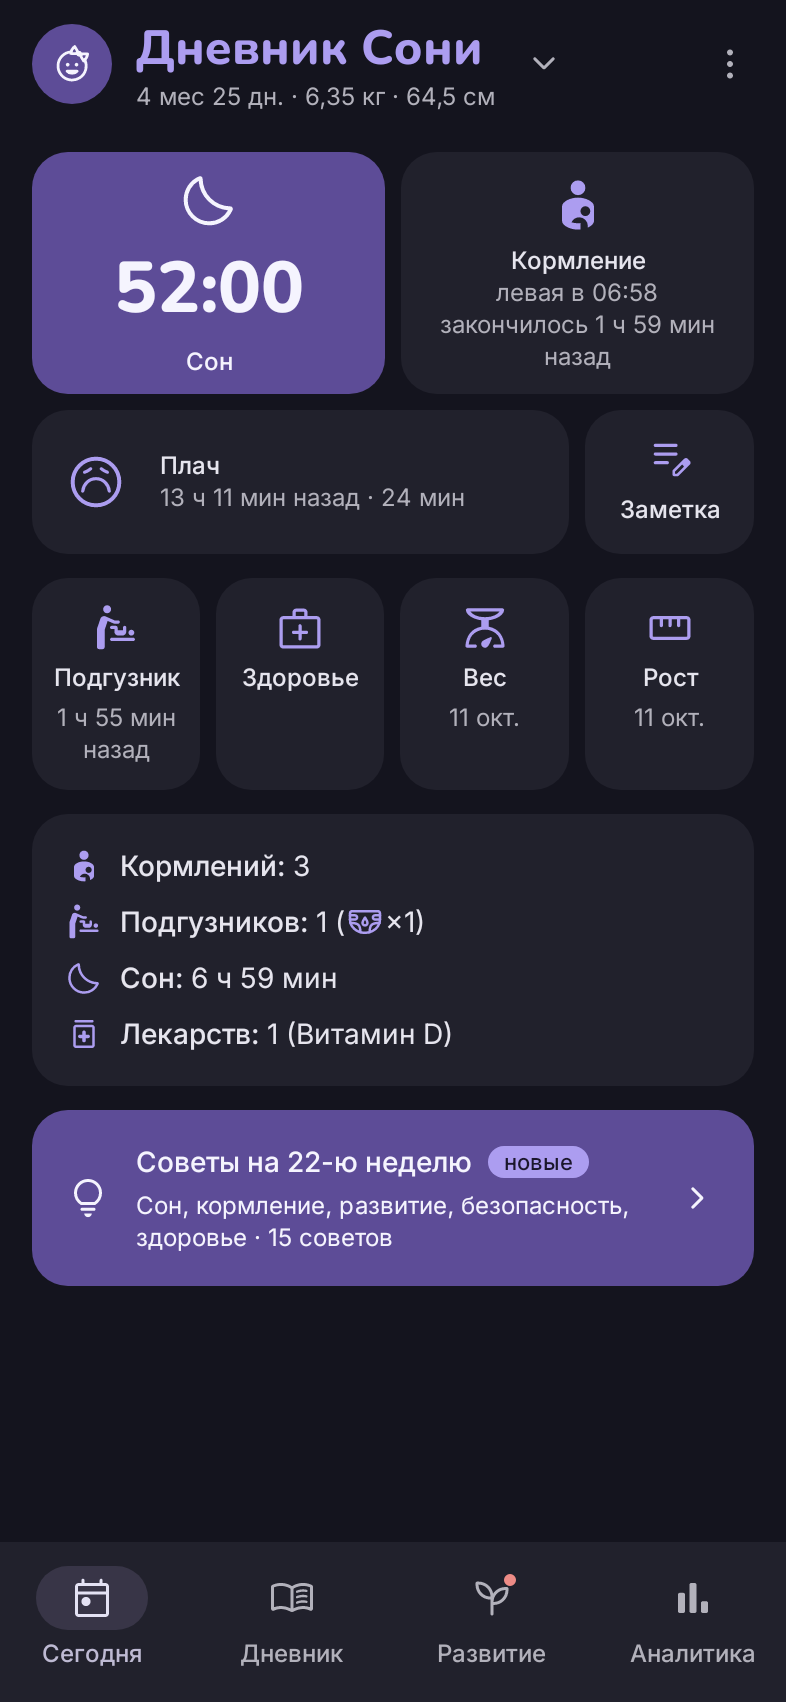
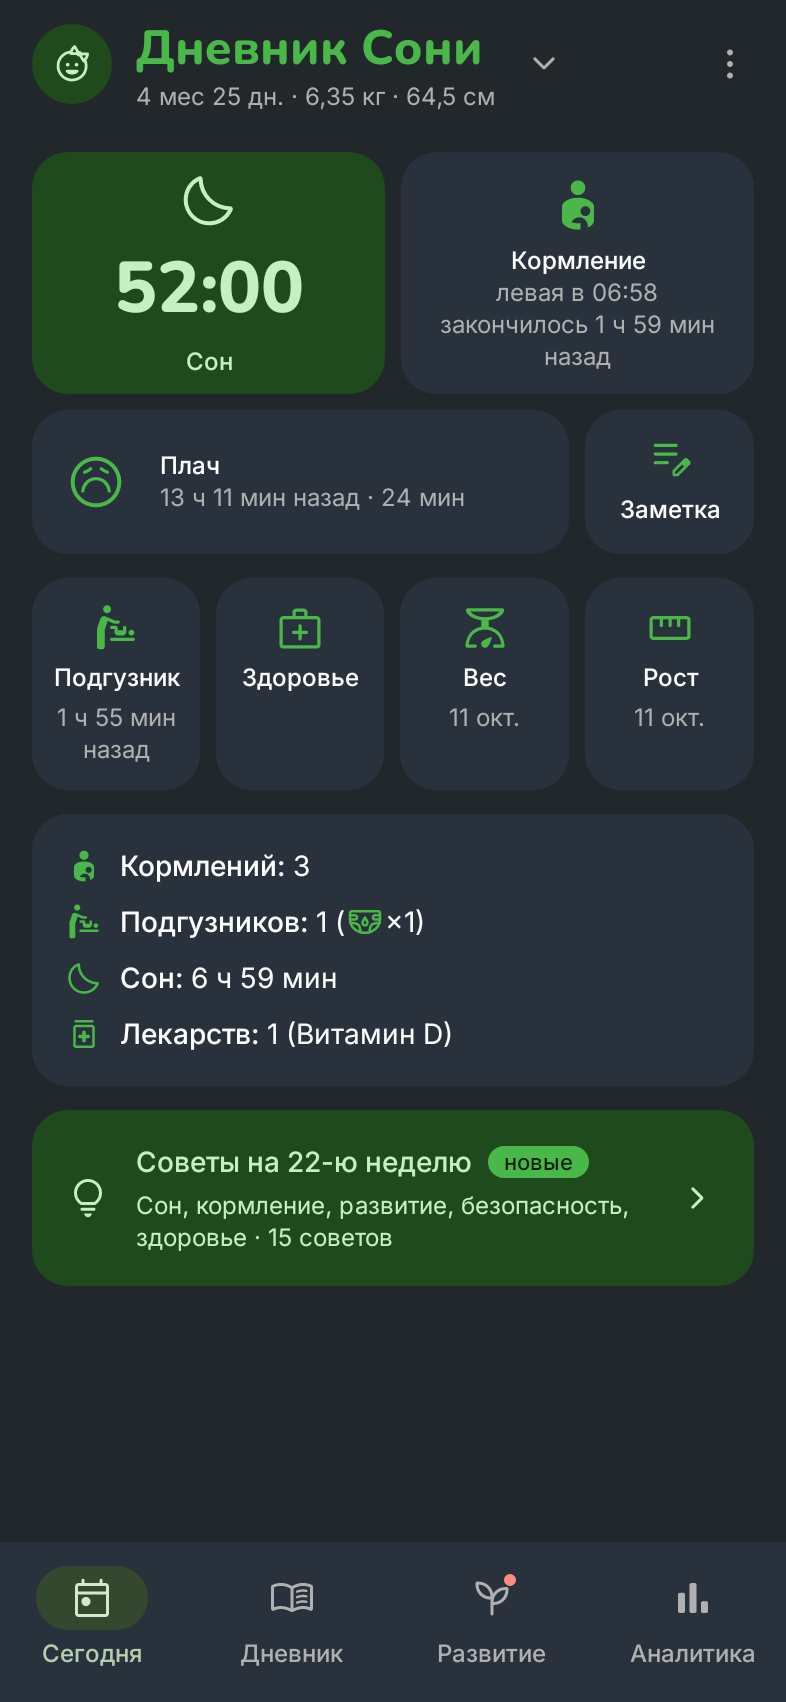
Тёмная тема по умолчанию — «Классика»
Палитра тёмной темы по умолчанию — прежняя зелёная «Классика» вместо «Сумерек»;
остальные палитры — на выбор, как были. Фон окна и цвета уведомления в шторке
в values-night — роли «Классики».

- ADR-0044 заменяет пункт ADR-0032 о палитре по умолчанию
- эталоны перезаписаны: тёмные экраны, компоненты в двух темах, лист «Тема»;
  diary_day_dark — «Классика», «Сумерки» — diary_day_dark_dusk; скриншот README
  в тёмной теме — «Классика»

diff --git a/app/src/test/java/com/kid/babylog/feature/diary/ThemeSheetTest.kt b/app/src/test/java/com/kid/babylog/feature/diary/ThemeSheetTest.kt
@@ -47,11 +47,12 @@ class ThemeSheetTest {
     @Test
     fun `palette is chosen without touching the mode`() {
         showSheet(ThemeChoice(mode = ThemeMode.DARK))
-        compose.onNodeWithText("Сумерки").assertIsSelected()
+        // По умолчанию — «Классика» (ADR-0044)
+        compose.onNodeWithText("Классика").assertIsSelected()
         compose.onNodeWithText("Ночник").performClick()
         assertEquals(ThemeChoice(mode = ThemeMode.DARK, darkPalette = DarkPalette.NIGHTLIGHT), theme)
         compose.onNodeWithText("Ночник").assertIsSelected()
-        compose.onNodeWithText("Сумерки").assertIsNotSelected()
+        compose.onNodeWithText("Классика").assertIsNotSelected()
     }
 
     @Test

diff --git a/app/src/main/java/com/kid/babylog/core/data/ThemeModeStore.kt b/app/src/main/java/com/kid/babylog/core/data/ThemeModeStore.kt
@@ -16,8 +16,11 @@ enum class DarkPalette {
     DUSK, NIGHTLIGHT, SAGE, POWDER, CLASSIC;
 
     companion object {
-        /** Палитра по умолчанию: её фон повторяет `window_background` в `values-night/colors.xml`. */
-        val DEFAULT = DUSK
+        /**
+         * Палитра по умолчанию — «Классика» (ADR-0044): её фон и акцент повторяют `window_background`
+         * и `shade_*` в `values-night/colors.xml`.
+         */
+        val DEFAULT = CLASSIC
     }
 }
 

diff --git a/docs/adr/0044-dark-classic-default.md b/docs/adr/0044-dark-classic-default.md
@@ -1,0 +1,29 @@
+# ADR-0044: Тёмная тема по умолчанию — «Классика»
+
+- **Статус:** Принято
+- **Дата:** 2026-10-22
+- **Затрагивает:** `DarkPalette.DEFAULT` в `ThemeModeStore.kt`, `values-night/colors.xml` (`window_background`, `shade_*`), тёмные эталоны в `app/src/test/screenshots/` и `docs/screenshots/`
+- **Заменяет:** пункт [ADR-0032](0032-dark-palettes.md) о палитре по умолчанию
+
+## Контекст
+
+С 1.7 тёмная тема по умолчанию — спокойные «Сумерки». Владелец решил, что по умолчанию лучше прежняя
+зелёная «Классика» — с ней приложение и на скриншотах README. Остальные палитры остаются на выбор.
+
+## Решение
+
+- Палитра тёмной темы по умолчанию — «Классика»: `DarkPalette.DEFAULT = CLASSIC`.
+- `window_background` и цвета уведомления в шторке (`shade_*`) в `values-night/colors.xml` — роли
+  «Классики» (`ClassicDarkColors`): ресурсы повторяют палитру по умолчанию, как требует ADR-0032.
+- Порядок палитр в листе «Тема» не меняй: «Классика» остаётся последней.
+
+## Последствия
+
+- Кто палитру не выбирал, после обновления увидит «Классику» вместо «Сумерек»; выбранная палитра
+  сохраняется.
+- Заставка холодного запуска при другой палитре мелькает фоном «Классики».
+
+## Проверка
+
+- `ThemeWindowTest`: ресурсы `values-night` совпадают с палитрой по умолчанию; эталон `diary_day_dark` —
+  «Классика», остальные палитры — `diary_day_dark_<палитра>`.

diff --git a/docs/adr/0032-dark-palettes.md b/docs/adr/0032-dark-palettes.md
@@ -12,7 +12,8 @@
 
 ## Решение
 
-- Палитра тёмной темы — `DarkPalette`: «Сумерки» (`DUSK`, по умолчанию), «Ночник», «Шалфей»,
+- Палитра тёмной темы — `DarkPalette`: «Сумерки» (`DUSK`; по умолчанию была до 1.10 — палитра
+  по умолчанию теперь «Классика», [ADR-0044](0044-dark-classic-default.md)), «Ночник», «Шалфей»,
   «Пудра» и «Классика» — прежняя зелёная. Светлая тема одна. Цвета палитры — `darkColors(palette)`.
 - Спокойные палитры строй функцией `calmDarkScheme` из параметров OKLCH (`Oklch.kt`): оттенок и
   хрома фона, текста и акцента. Светлота поверхностей, текста и рамок у них общая — палитра её
@@ -28,7 +29,8 @@
 
 ## Последствия
 
-- При холодном запуске с палитрой не по умолчанию системная заставка на долю секунды — фоном «Сумерек».
+- При холодном запуске с палитрой не по умолчанию системная заставка на долю секунды — фоном палитры
+  по умолчанию (с [ADR-0044](0044-dark-classic-default.md) — «Классики»).
 - Новая роль цвета — в `calmDarkScheme` и `ClassicDarkColors`; новый ряд графика — во всех трёх наборах `ChartColors`.
 
 ## Проверка
